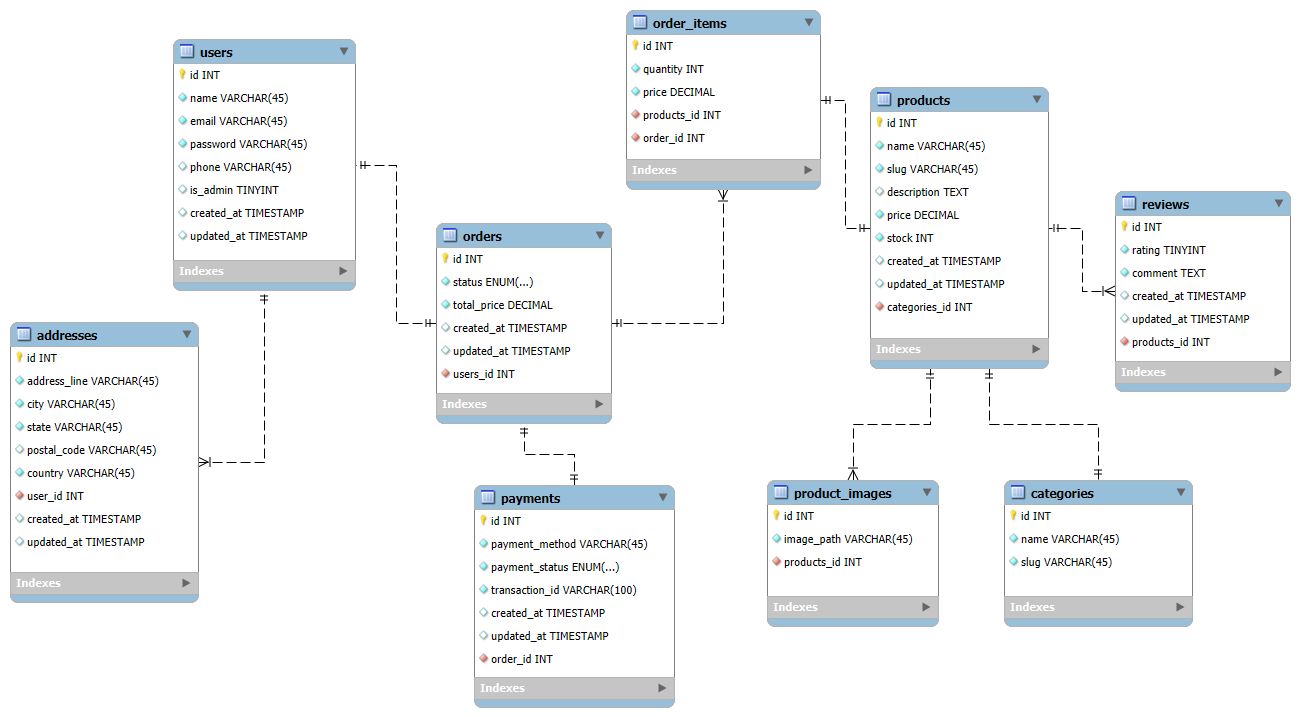
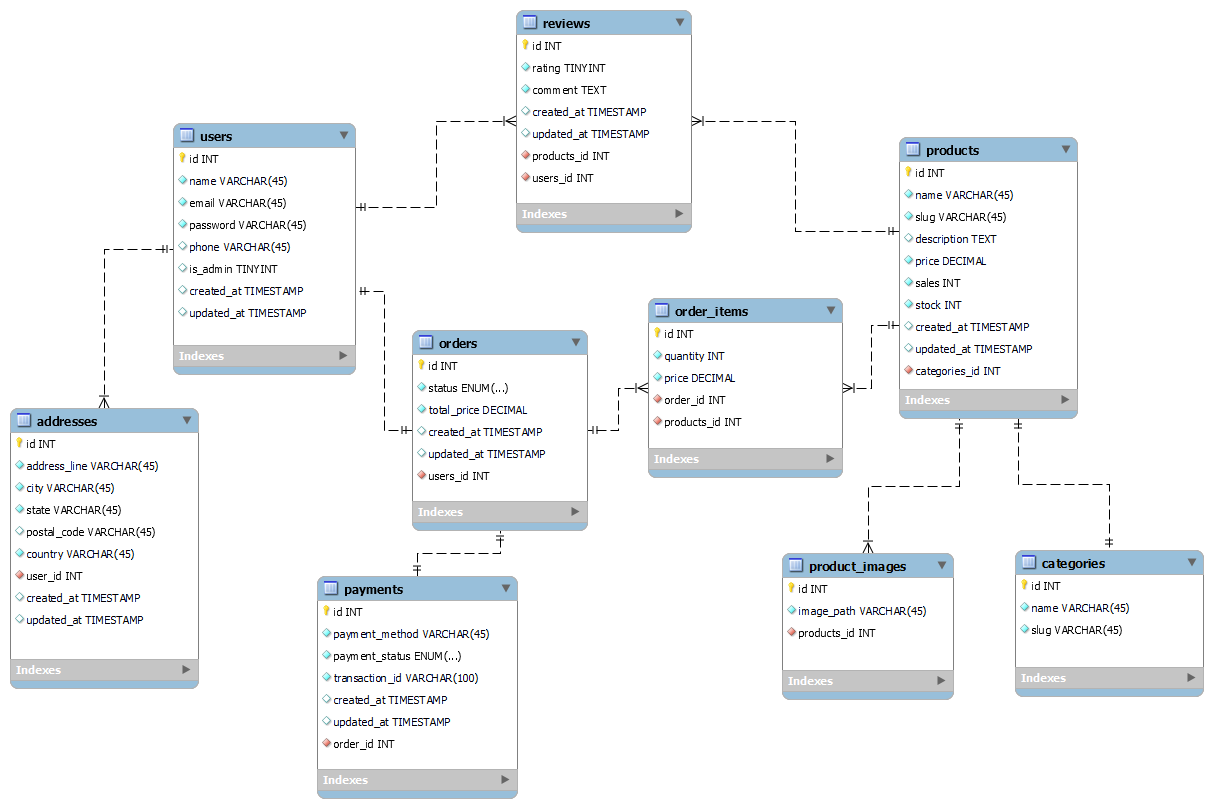
feat: adiciona coluna de vendas na tabela de produtos e referência de usuário na tabela de avaliações

diff --git a/database/migrations/2024_12_02_162447_create_reviews_table.php b/database/migrations/2024_12_02_162447_create_reviews_table.php
@@ -13,6 +13,8 @@ return new class extends Migration
             $table->text('comment');
             $table->tinyInteger('rating');
             $table->foreignId('product_id')->constrained('products')->onDelete('cascade');
+            $table->foreignId('user_id')->constrained('users')->onDelete('cascade');
+
             $table->timestamps();
         });
     }

diff --git a/database/migrations/2024_12_02_162419_create_products_table.php b/database/migrations/2024_12_02_162419_create_products_table.php
@@ -15,6 +15,7 @@ return new class extends Migration
             $table->text('description')->nullable();
             $table->decimal('price', 10, 2);
             $table->integer('stock');
+            $table->integer('sales')->default(0);
             $table->foreignId('category_id')->constrained('categories');
             $table->timestamps();
         });
